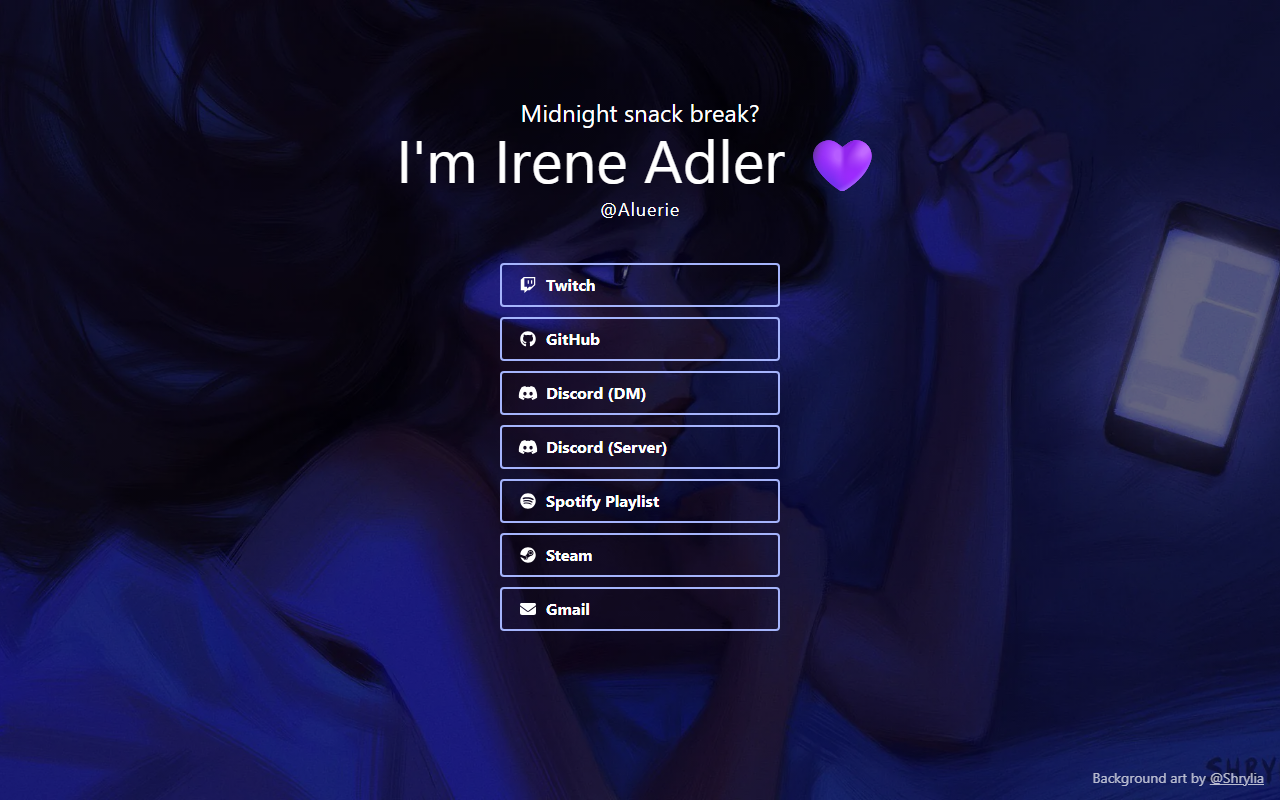
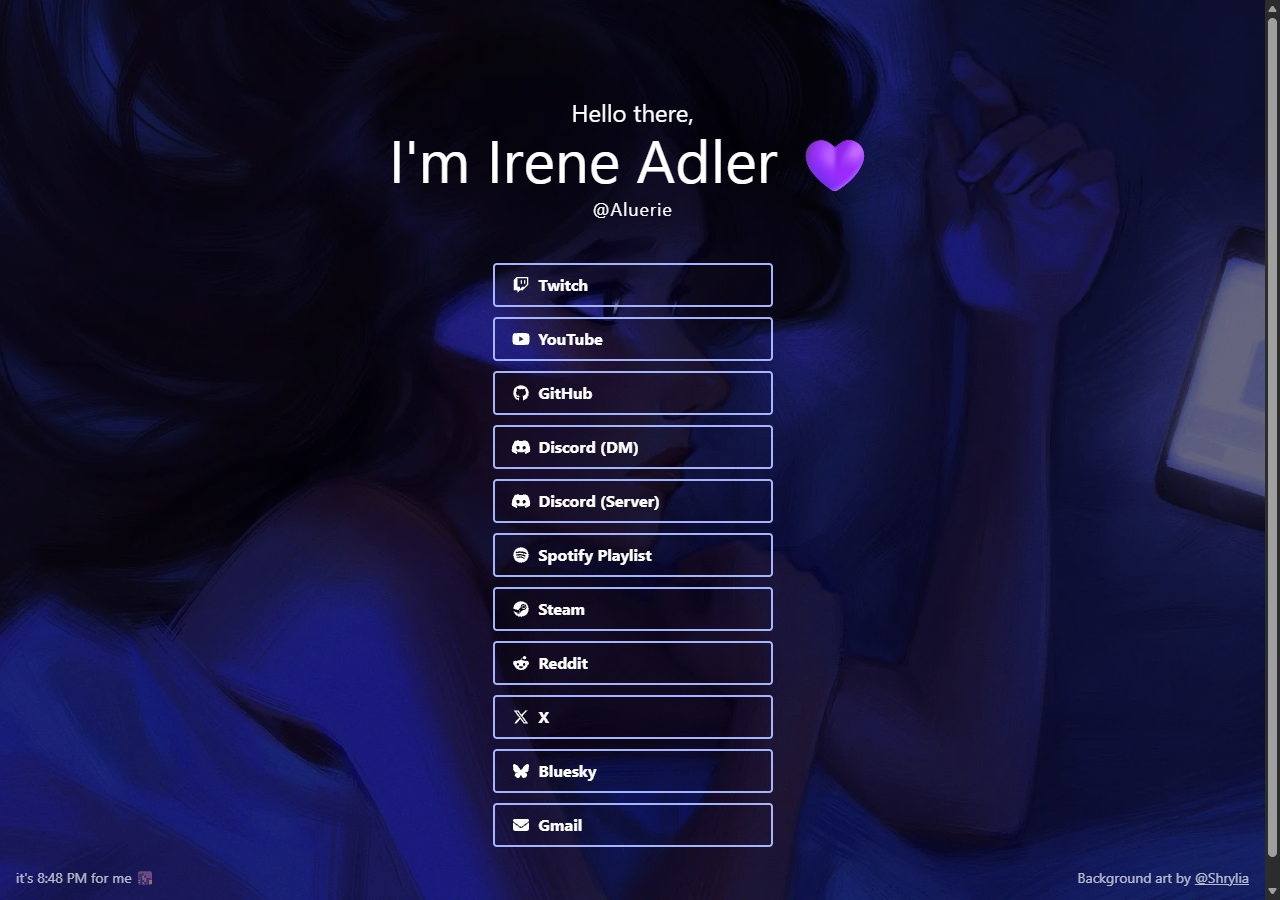
📝 Update the screenshot, README and preview alt text

diff --git a/index.html b/index.html
@@ -14,7 +14,7 @@
     <meta property="og:image" content="https://aluerie.github.io/img/og.jpg">
     <meta property="og:image:width" content="1200">
     <meta property="og:image:height" content="630">
-    <meta property="og:image:alt" content="Hello there, I'm Irene Adler 💜 @Aluerie, with Twitch, GitHub, Discord, Spotify and Steam links, over art of a girl lying in bed at night lit by her phone">
+    <meta property="og:image:alt" content="Hello there, I'm Irene Adler 💜 @Aluerie, with Twitch, YouTube, GitHub, Discord, Spotify and Steam links, over art of a girl lying in bed at night lit by her phone">
     <meta name="twitter:card" content="summary_large_image">
     <meta name="twitter:image" content="https://aluerie.github.io/img/og.jpg">
     <meta name="theme-color" content="#6366f1">

diff --git a/README.md b/README.md
@@ -13,9 +13,10 @@ It's a single static page (`index.html`, with styles in `css/`, scripts in `js/`
 - Click `@Aluerie` to copy the handle.
 - "it's 1:52 AM for me 🌙" in the bottom-left corner, in UTC.
 - The Twitch button glows and gets a LIVE badge while I'm streaming.
-- Hovering a link button shows a notification with live info (`js/status.js`): Twitch stream status via [DecAPI](https://decapi.me/), Discord server size via Discord's invite API, GitHub stats and latest activity, the song I'm playing via [Now Playing for Spotify](https://spotify.aiden.tv/), and Discord presence and current game via [Lanyard](https://github.com/Phineas/lanyard). Each one falls back to plain text if its service doesn't answer.
-- A custom Discord card when the link is posted in Discord.
-- A handful of easter eggs (in `js/eggs.js` and `js/hearts.js`), and a catch-the-hearts mini-game on the 404 page (`js/catch.js`).
+- Hovering a link button shows a notification with live info (`js/status.js`): Twitch stream status and my latest YouTube video via [DecAPI](https://decapi.me/), Discord server size via Discord's invite API, GitHub stats and latest activity, the song I'm playing via [Now Playing for Spotify](https://spotify.aiden.tv/) (or my playlist when I'm not), my latest Bluesky post, and Discord presence and current game via [Lanyard](https://github.com/Phineas/lanyard). Each one falls back to plain text if its service doesn't answer.
+- The song I'm listening to, above the clock.
+- A custom Discord card with logo buttons when the link is posted in Discord.
+- A handful of easter eggs (in `js/eggs.js` and `js/hearts.js`): a clickable phone in the art (rest the mouse on it, too), a tab title that misses you, heart rain and more. Plus a catch-the-hearts mini-game on the 404 page (`js/catch.js`).
 
 ## 🔗 Adding or changing a link
 
@@ -56,4 +57,4 @@ To test the Discord card after pushing, wait about 10 minutes, then post `https:
 
 ## 📜 License
 
-The code is under the [MIT License](LICENSE). The background art is by [@Shrylia](https://x.com/shrylia) and isn't covered by it. The icons are [Font Awesome Free](https://fontawesome.com/license/free) (CC BY 4.0).
+The code is under the [MIT License](LICENSE). The background art is by [@Shrylia](https://x.com/shrylia) and isn't covered by it. The icons are [Font Awesome Free](https://fontawesome.com/license/free) (CC BY 4.0), and some of the Discord card emojis are drawn from [Simple Icons](https://simpleicons.org/) (CC0). The brand logos belong to their owners.
